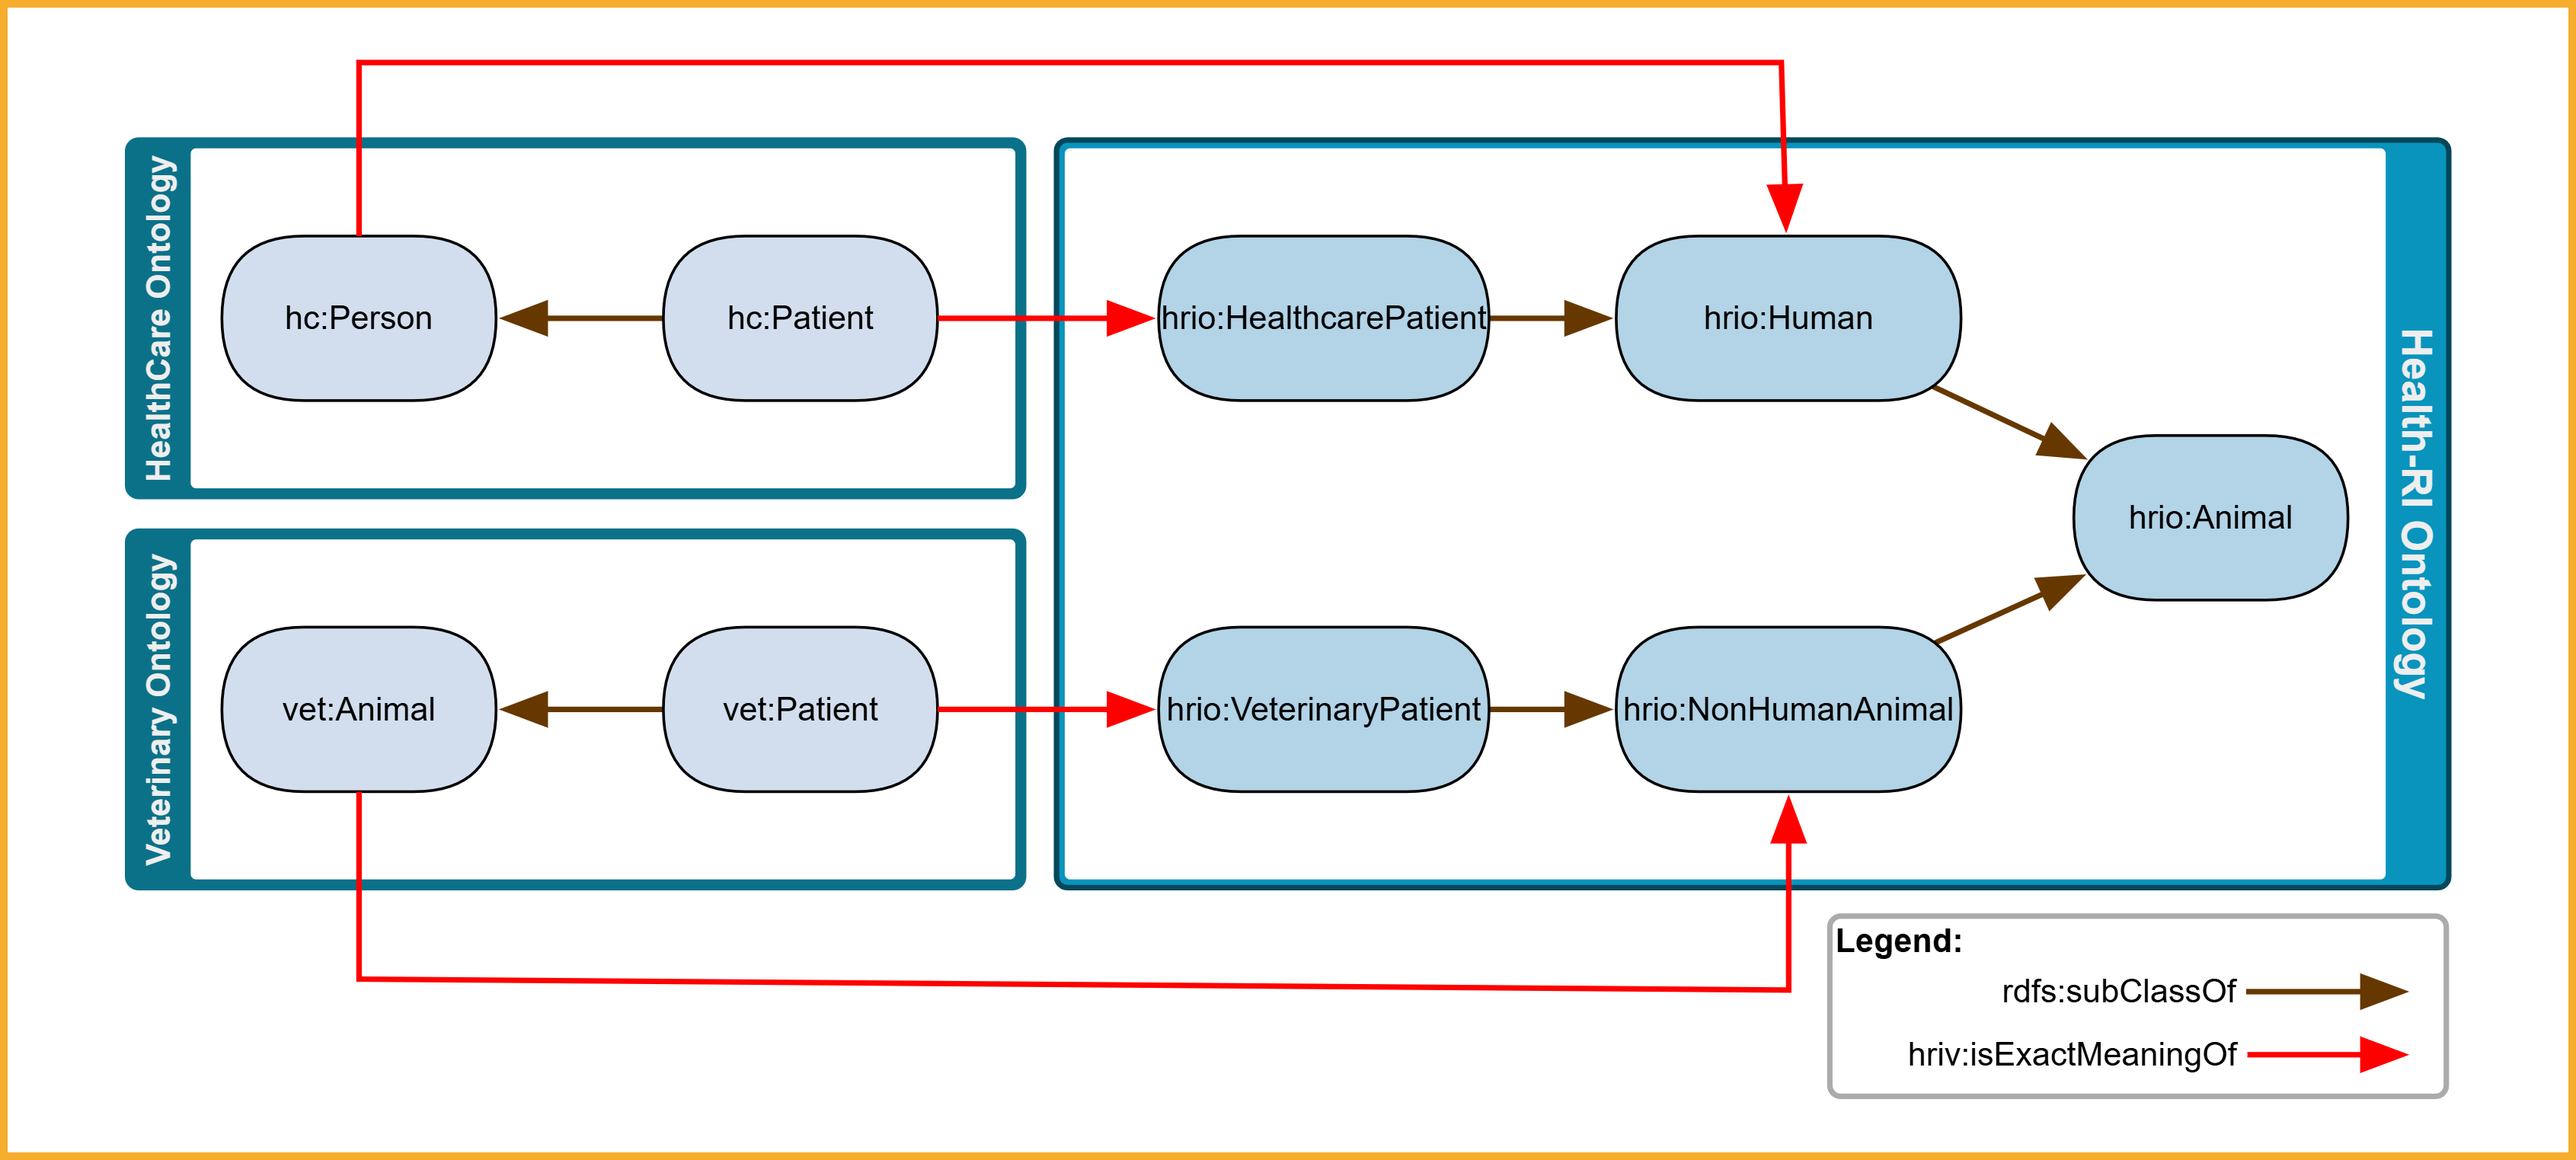
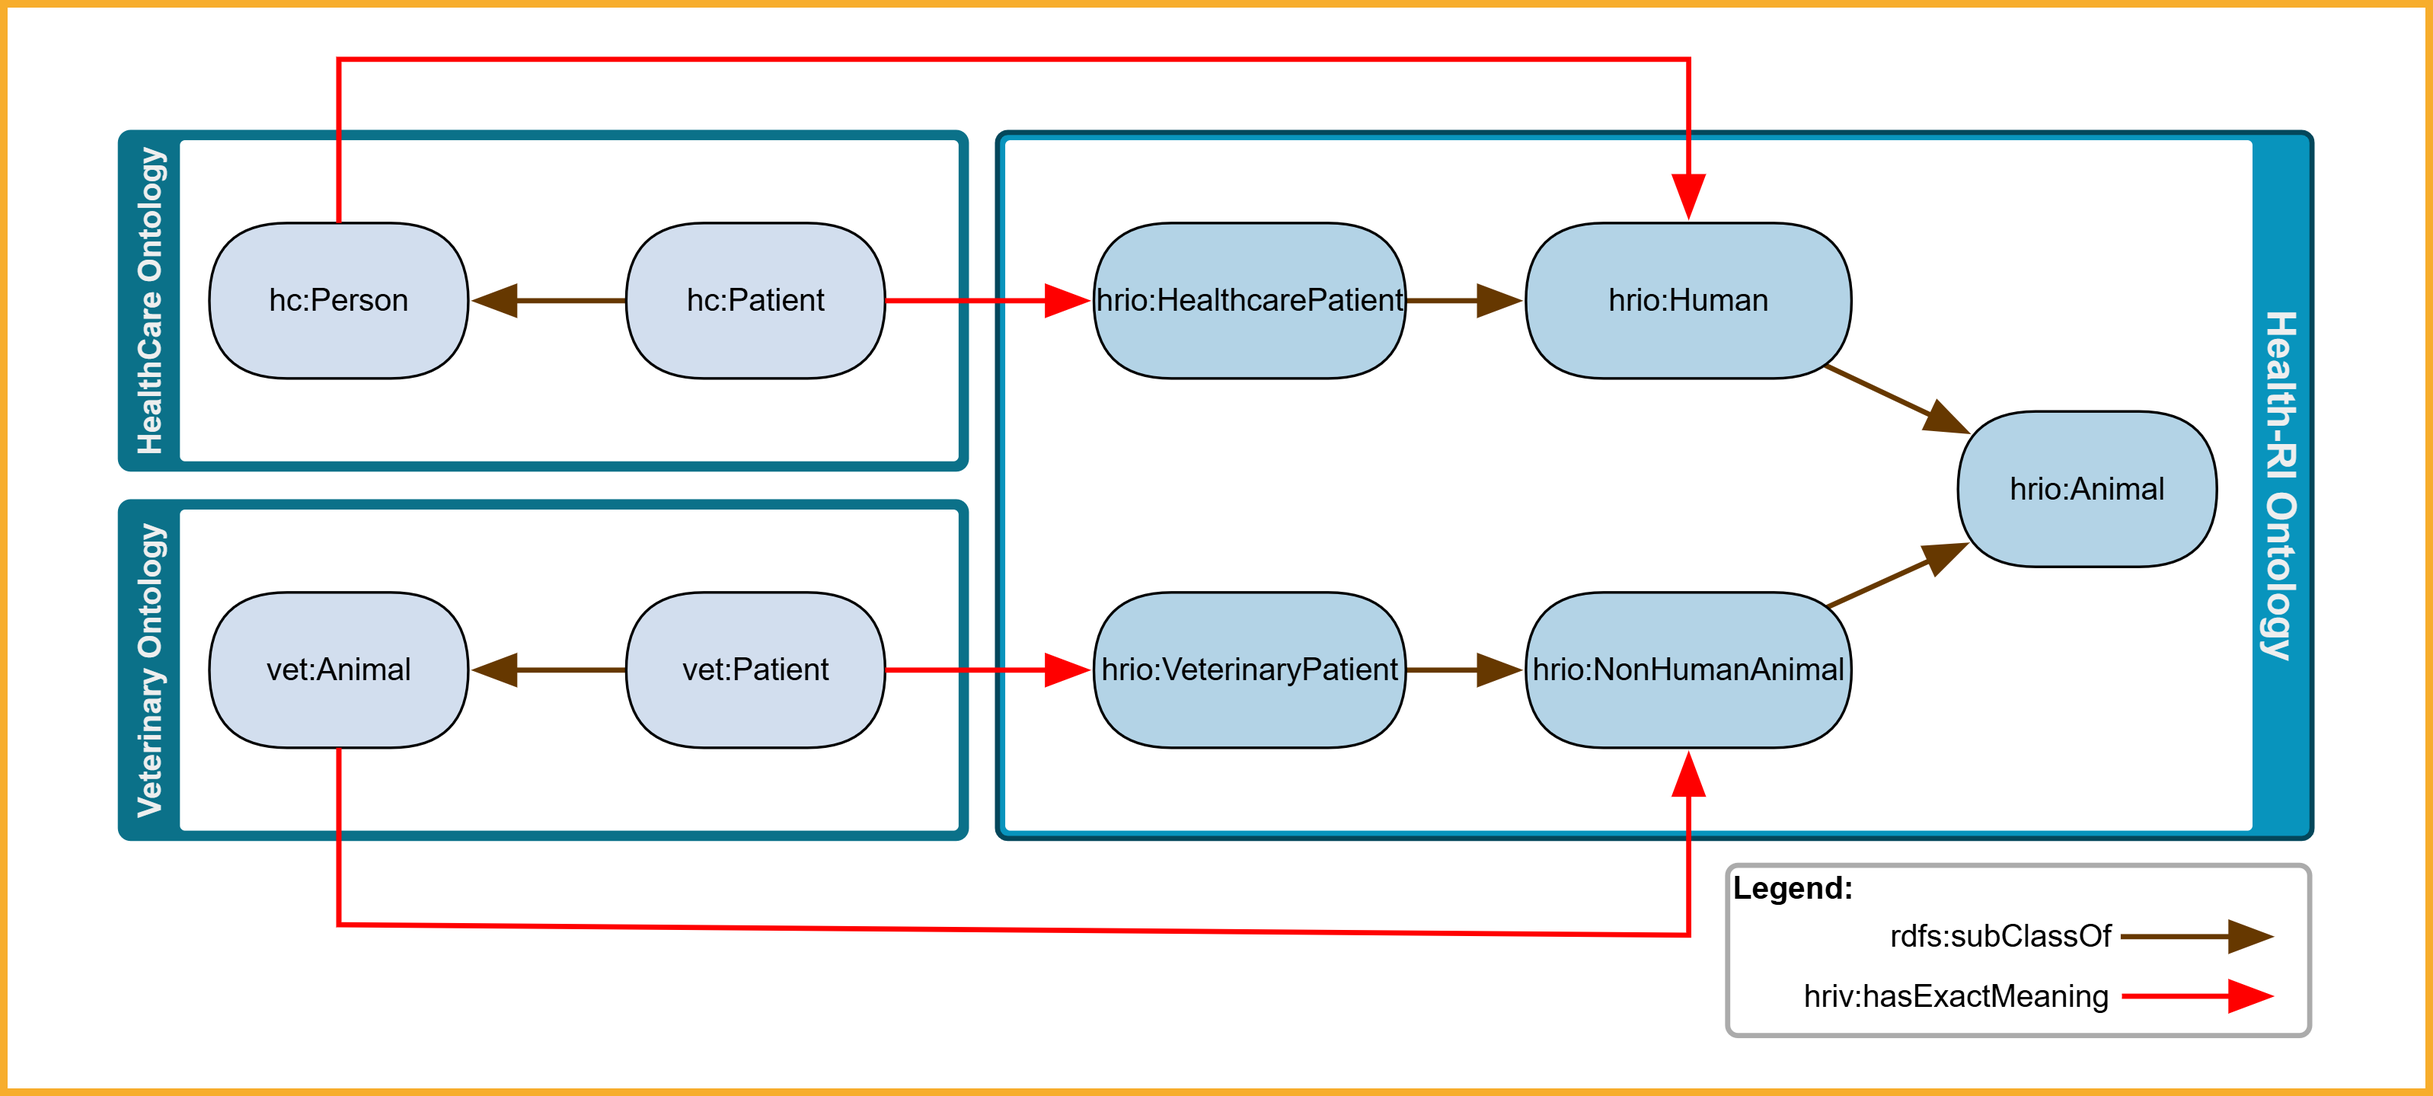
feat(mapping-strategy): align hriv relations with SKOS and update example diagrams
- updated mapping-strategy.md to document that Health-RI mapping relations
  are declared as rdfs:subPropertyOf SKOS mapping properties
- added entailment summary for hriv:hasExactMeaning, hriv:hasBroaderMeaningThan,
  and hriv:hasNarrowerMeaningThan
- corrected labels in example-mapping.graphml from `hriv:isExactMeaningOf`
  to `hriv:hasExactMeaning`
- adjusted diagram bend position for visual alignment
- regenerated example-mapping.png and example-mapping2.png to reflect changes

diff --git a/docs/method/mapping-strategy.md b/docs/method/mapping-strategy.md
@@ -94,6 +94,14 @@ These complementary approaches enable semantic alignment in both centrally contr
 
 The [Health-RI Mapping Vocabulary](./specification.html) was created to provide a set of mapping properties designed for expressing alignments between concepts in different concept schemes (e.g. external vocabularies and our Health-RI ontology). The principal properties are: `hriv:hasExactMeaning`, `hriv:hasBroaderMeaningThan`, and `hriv:hasNarrowerMeaningThan`.
 
+The Health-RI mapping relations are declared as specializations of SKOS mapping properties. Importantly, this does not change the semantics explained above: Health-RI relations remain meaning-centric (intentional) while SKOS relations are similarity mappings between extensionally defined categories. The `rdfs:subPropertyOf` alignment simply ensures that whenever you assert an `hriv` mapping, a reasoner (or any RDFS-aware tool) can automatically derive the corresponding SKOS mapping. This improves interoperability with tools that expect SKOS, while preserving the stricter intent of the Health-RI semantics.
+
+**Entailment summary (via `rdfs:subPropertyOf`):**
+
+- [`hriv:hasExactMeaning`](./specification.html#hasExactMeaning) ⟶ `skos:exactMatch`
+- [`hriv:hasBroaderMeaningThan`](./specification.html#hasBroaderMeaningThan) ⟶ `skos:narrowMatch`
+- [`hriv:hasNarrowerMeaningThan`](./specification.html#hasNarrowerMeaningThan) ⟶ `skos:broadMatch`
+
 ### Our Strategy: Choosing the Right Mapping Property
 
 - **[`hriv:hasExactMeaning`](./specification.html#hasExactMeaning)** is used when the external concept is fully equivalent in meaning to our reference concept.
